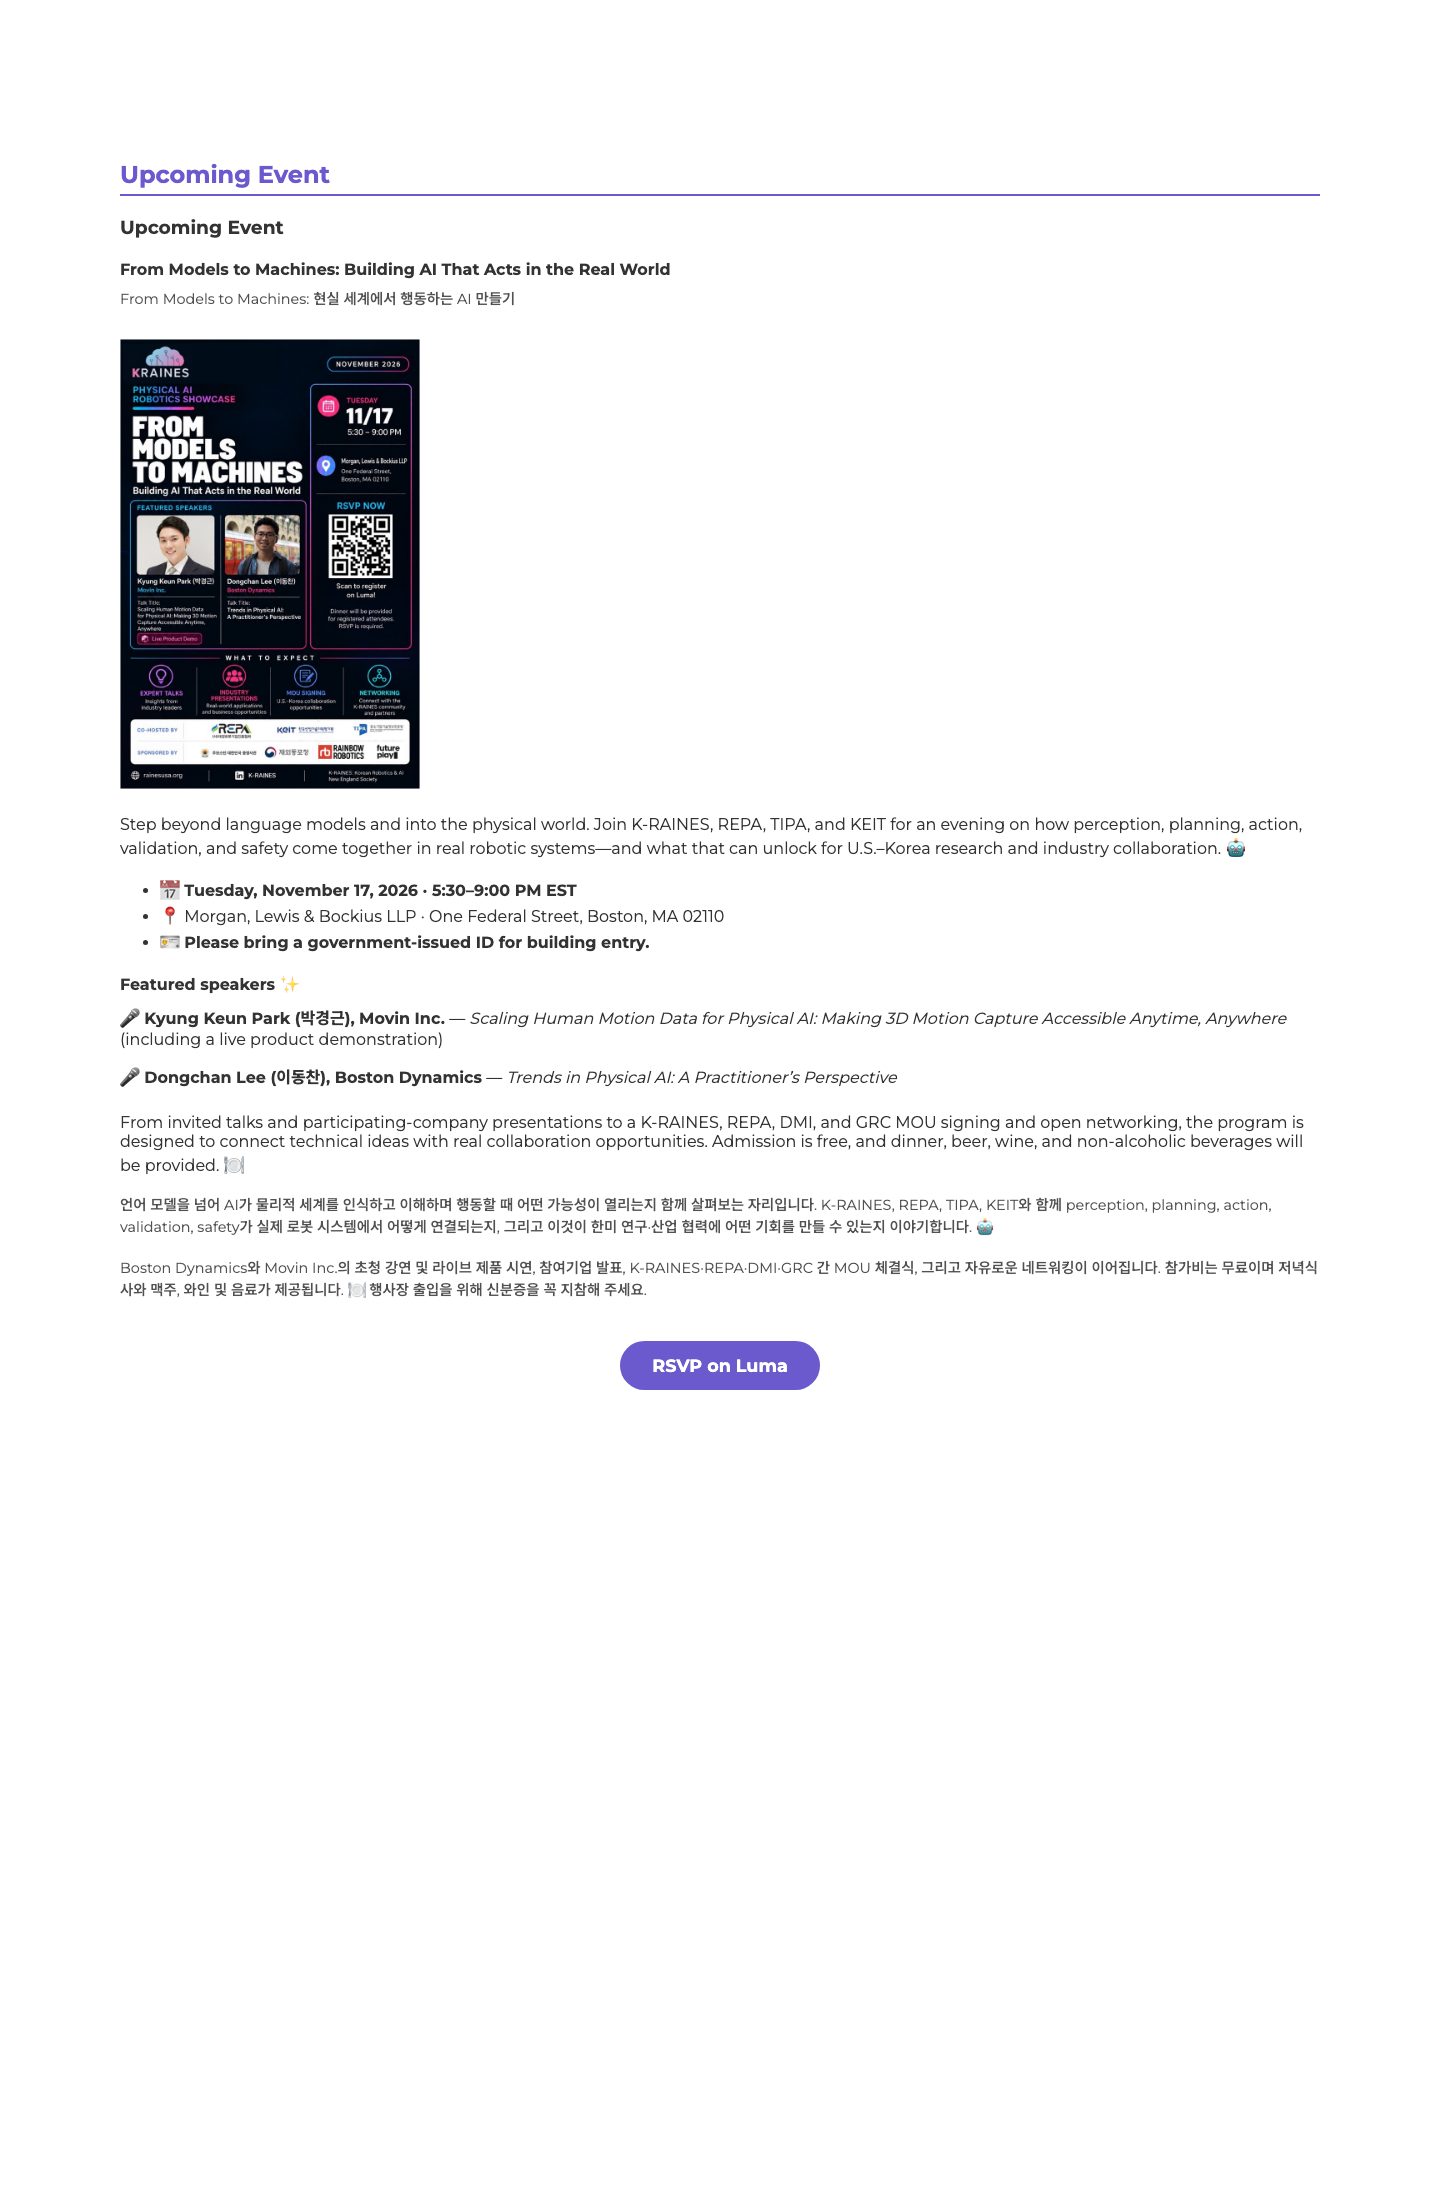
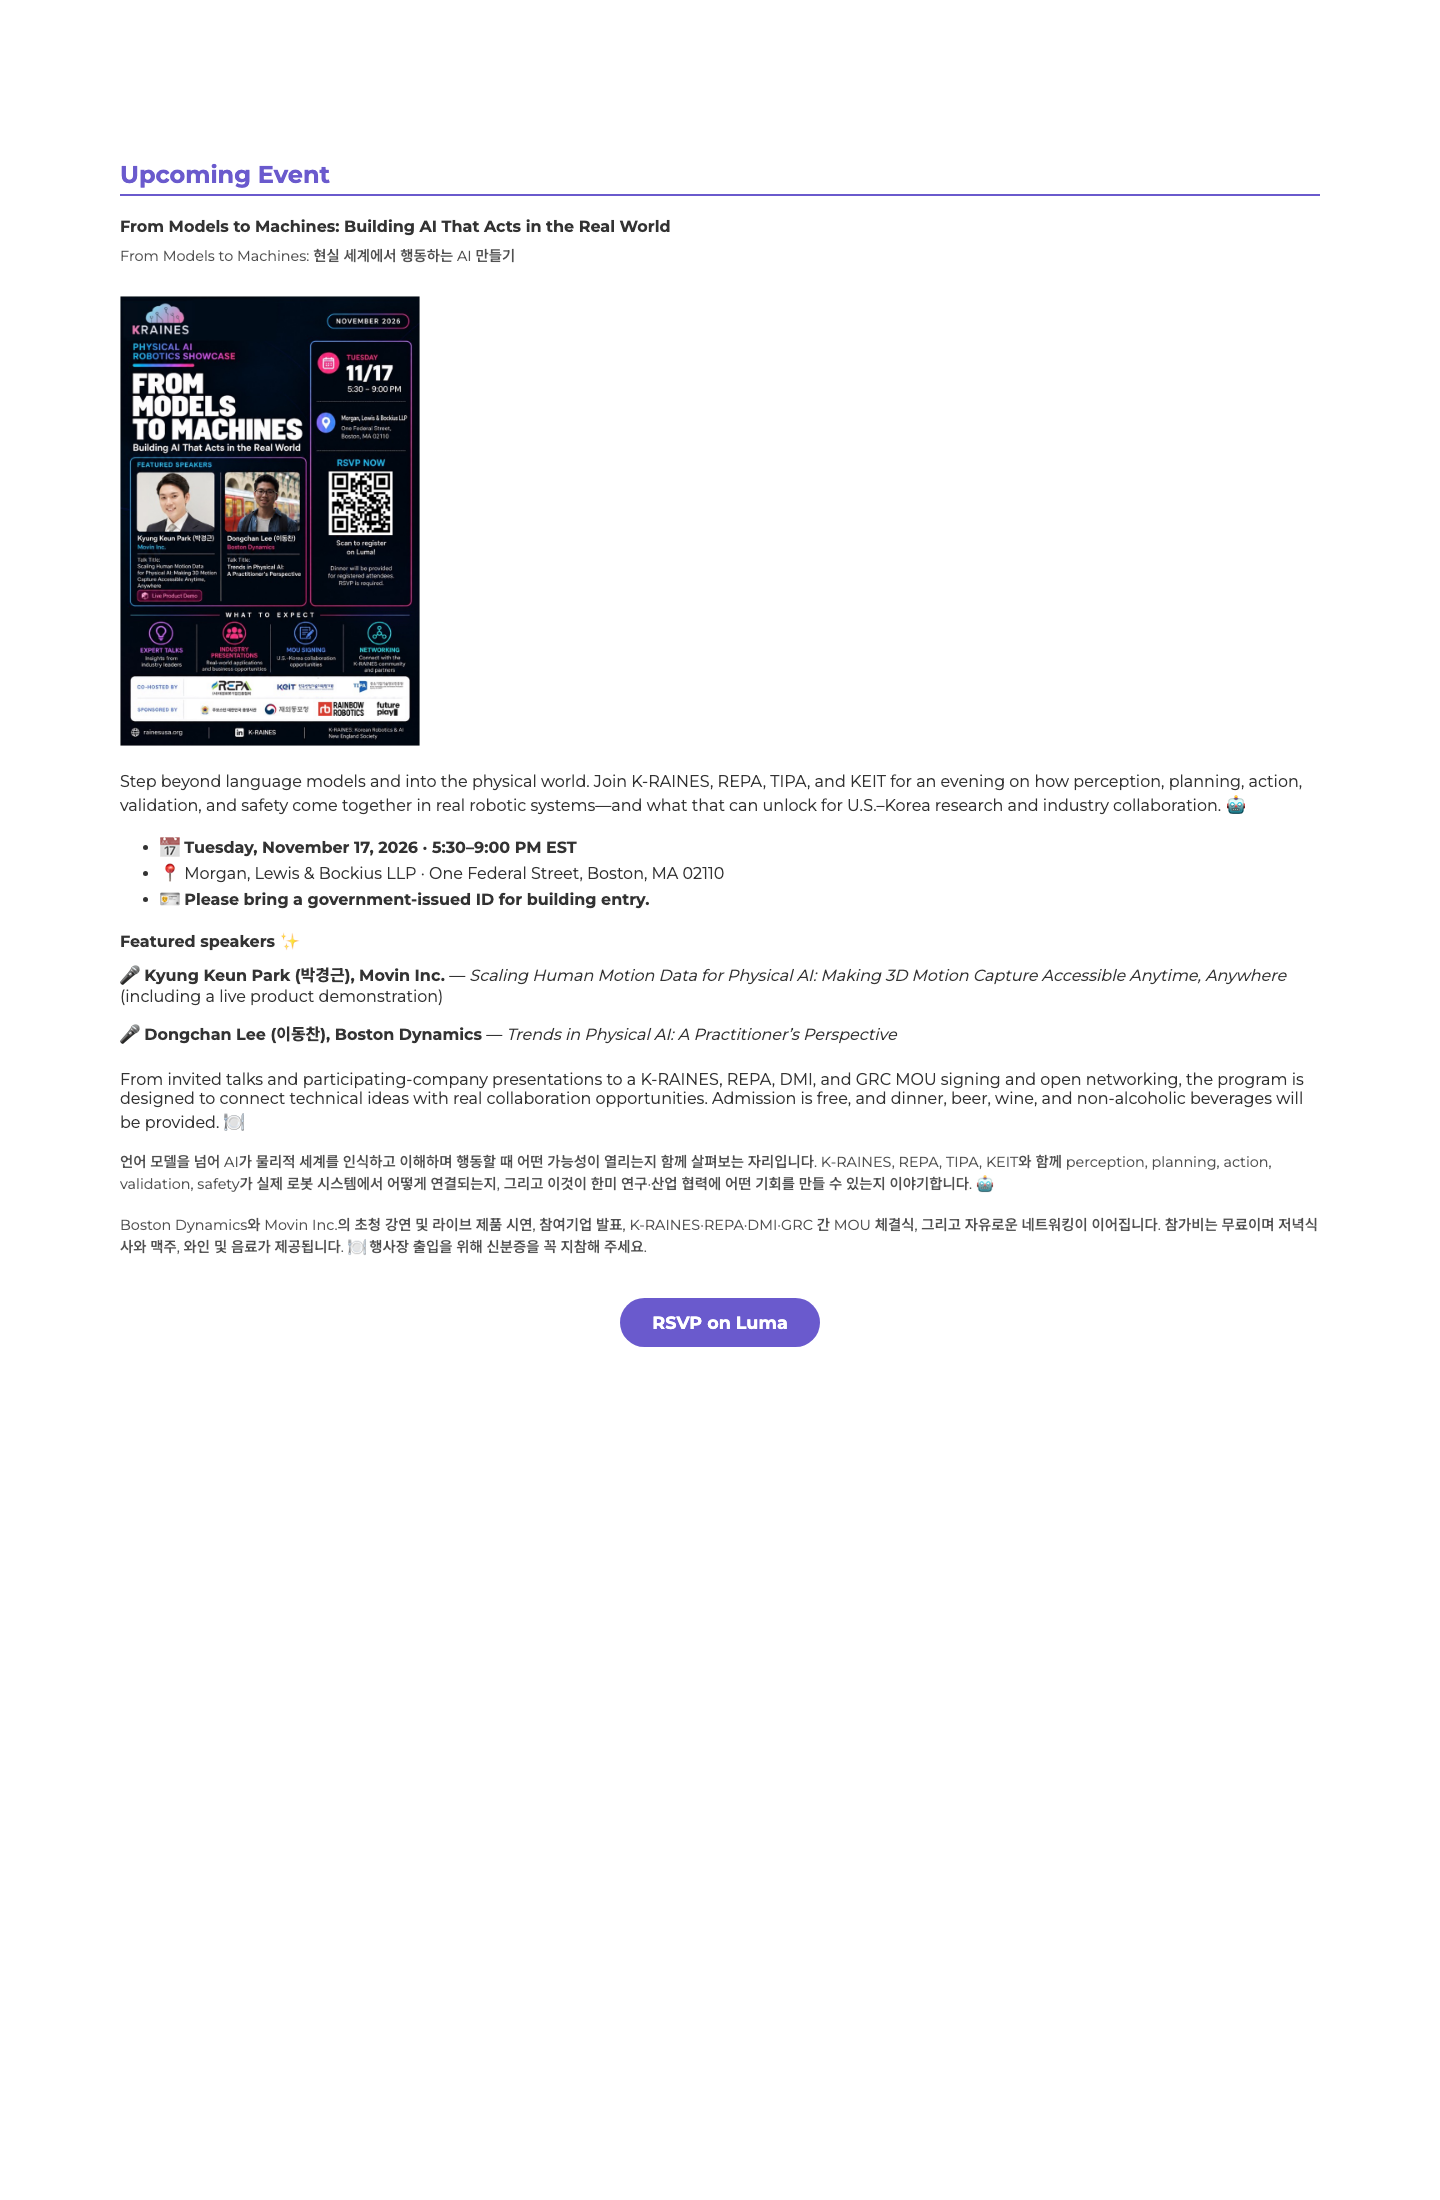
Style upcoming event heading

Changed region(s): [[0.0625, 0.0927, 0.9062, 0.6491]]

diff --git a/index.html b/index.html
@@ -2322,7 +2322,7 @@
                 </div>
             </div>
             <div id="upcoming-events" class="future-events">
-                <h3>Upcoming Event</h3>
+                <h2>Upcoming Event</h2>
                 <div class="event future-event">
                     <h4>From Models to Machines: Building AI That Acts in the Real World<em class="translation">From Models to Machines: 현실 세계에서 행동하는 AI 만들기</em></h4>
                     <img src="assets/event_111726/K-RAINES_November_17_2026_Physical_AI_Robotics_Showcase.png" alt="K-RAINES November 17, 2026 Physical AI Robotics Showcase poster">
